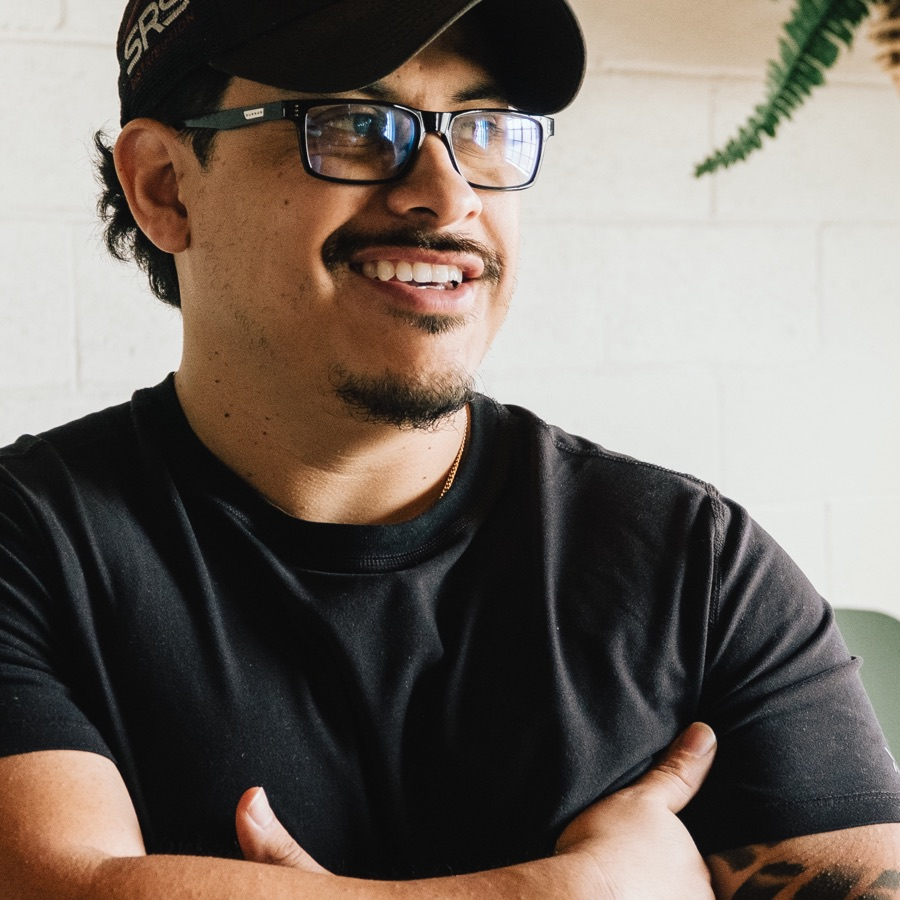
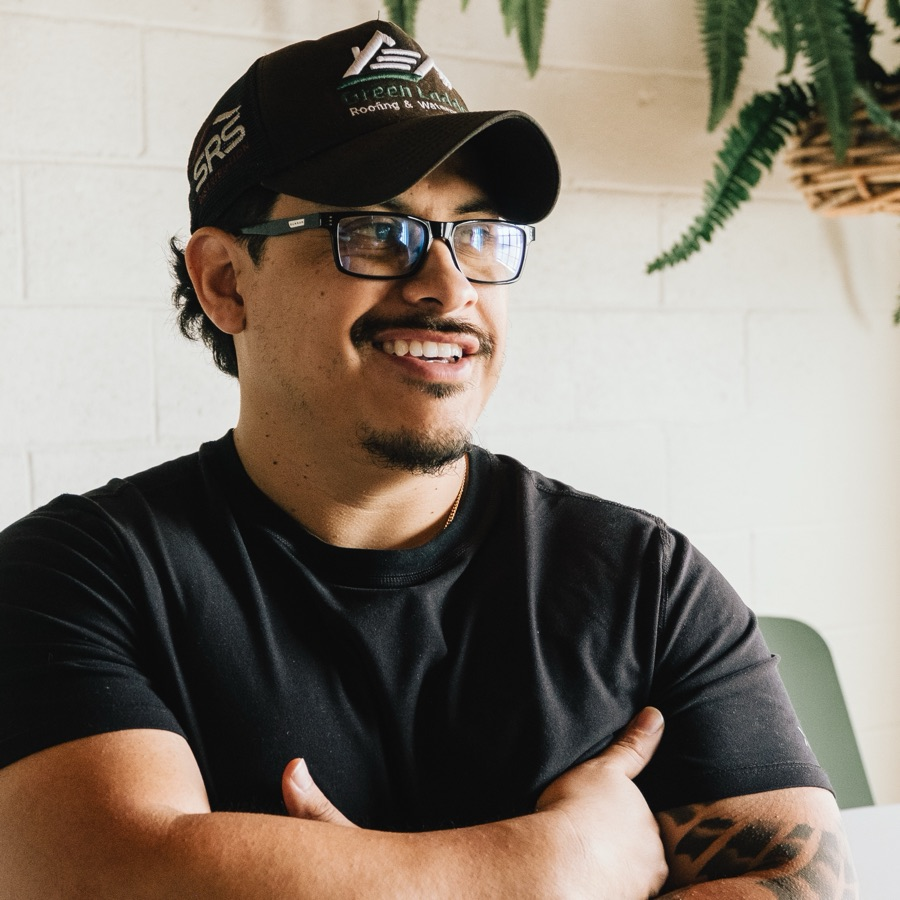
Widen Industry Leaders photo crops, swap in Bryan's real photo
Ismael, Danny, and David were cropped too tight to just a face — widen
each to show head-and-shoulders/chest. Recenter Carlos's crop so his
full mic-hand gesture is in frame instead of clipped at the edge.
Replace the placeholder Brian Peralta photo with his actual headshot
and correct the name to Bryan throughout.

diff --git a/index.html b/index.html
@@ -458,10 +458,10 @@
 
         <figure class="quote-card" data-reveal>
           <div class="quote-card__photo">
-            <img src="assets/am-content/leaders/brian-peralta.jpg" alt="Brian Peralta">
+            <img src="assets/am-content/leaders/bryan-peralta.jpg" alt="Bryan Peralta">
           </div>
           <blockquote>"Flat-rate, authoritative, no race to the bottom. That's how we scaled past our competition."</blockquote>
-          <figcaption>BRIAN PERALTA</figcaption>
+          <figcaption>BRYAN PERALTA</figcaption>
         </figure>
 
         <figure class="quote-card" data-reveal>
